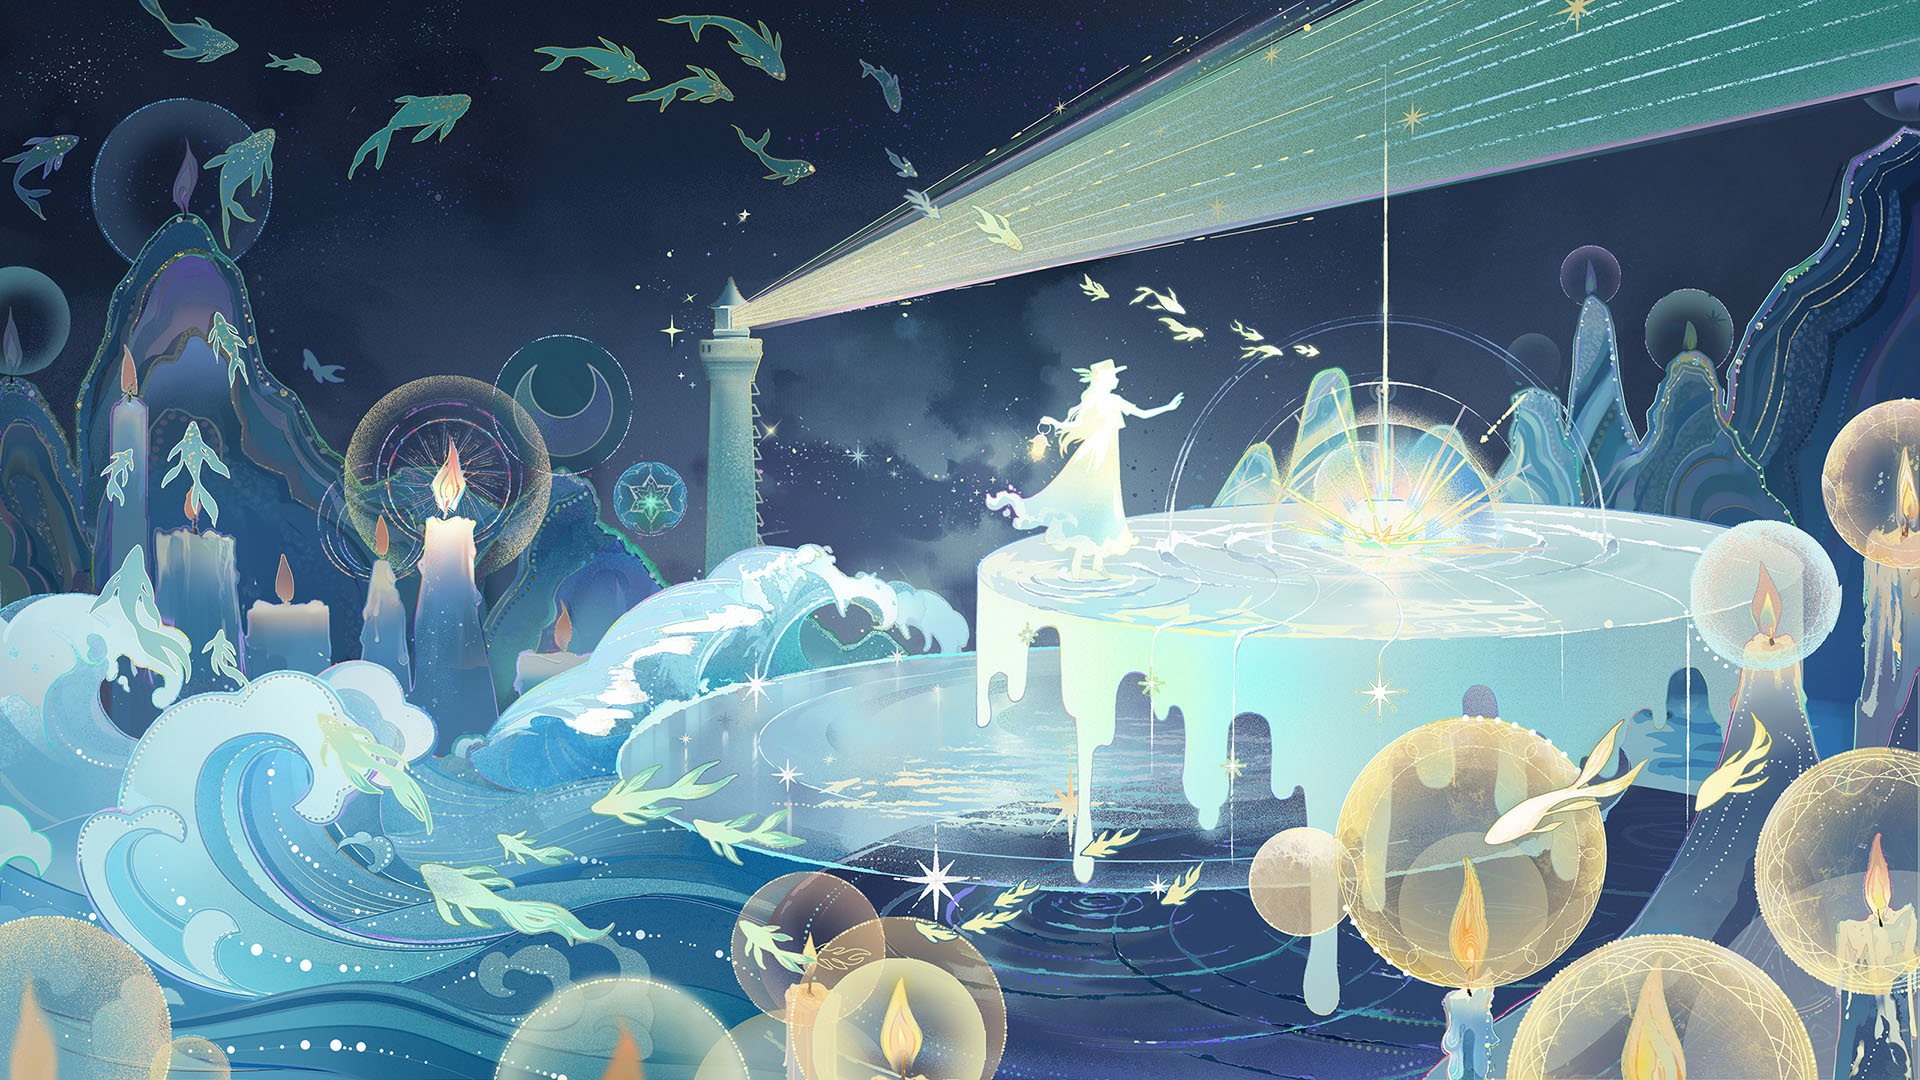
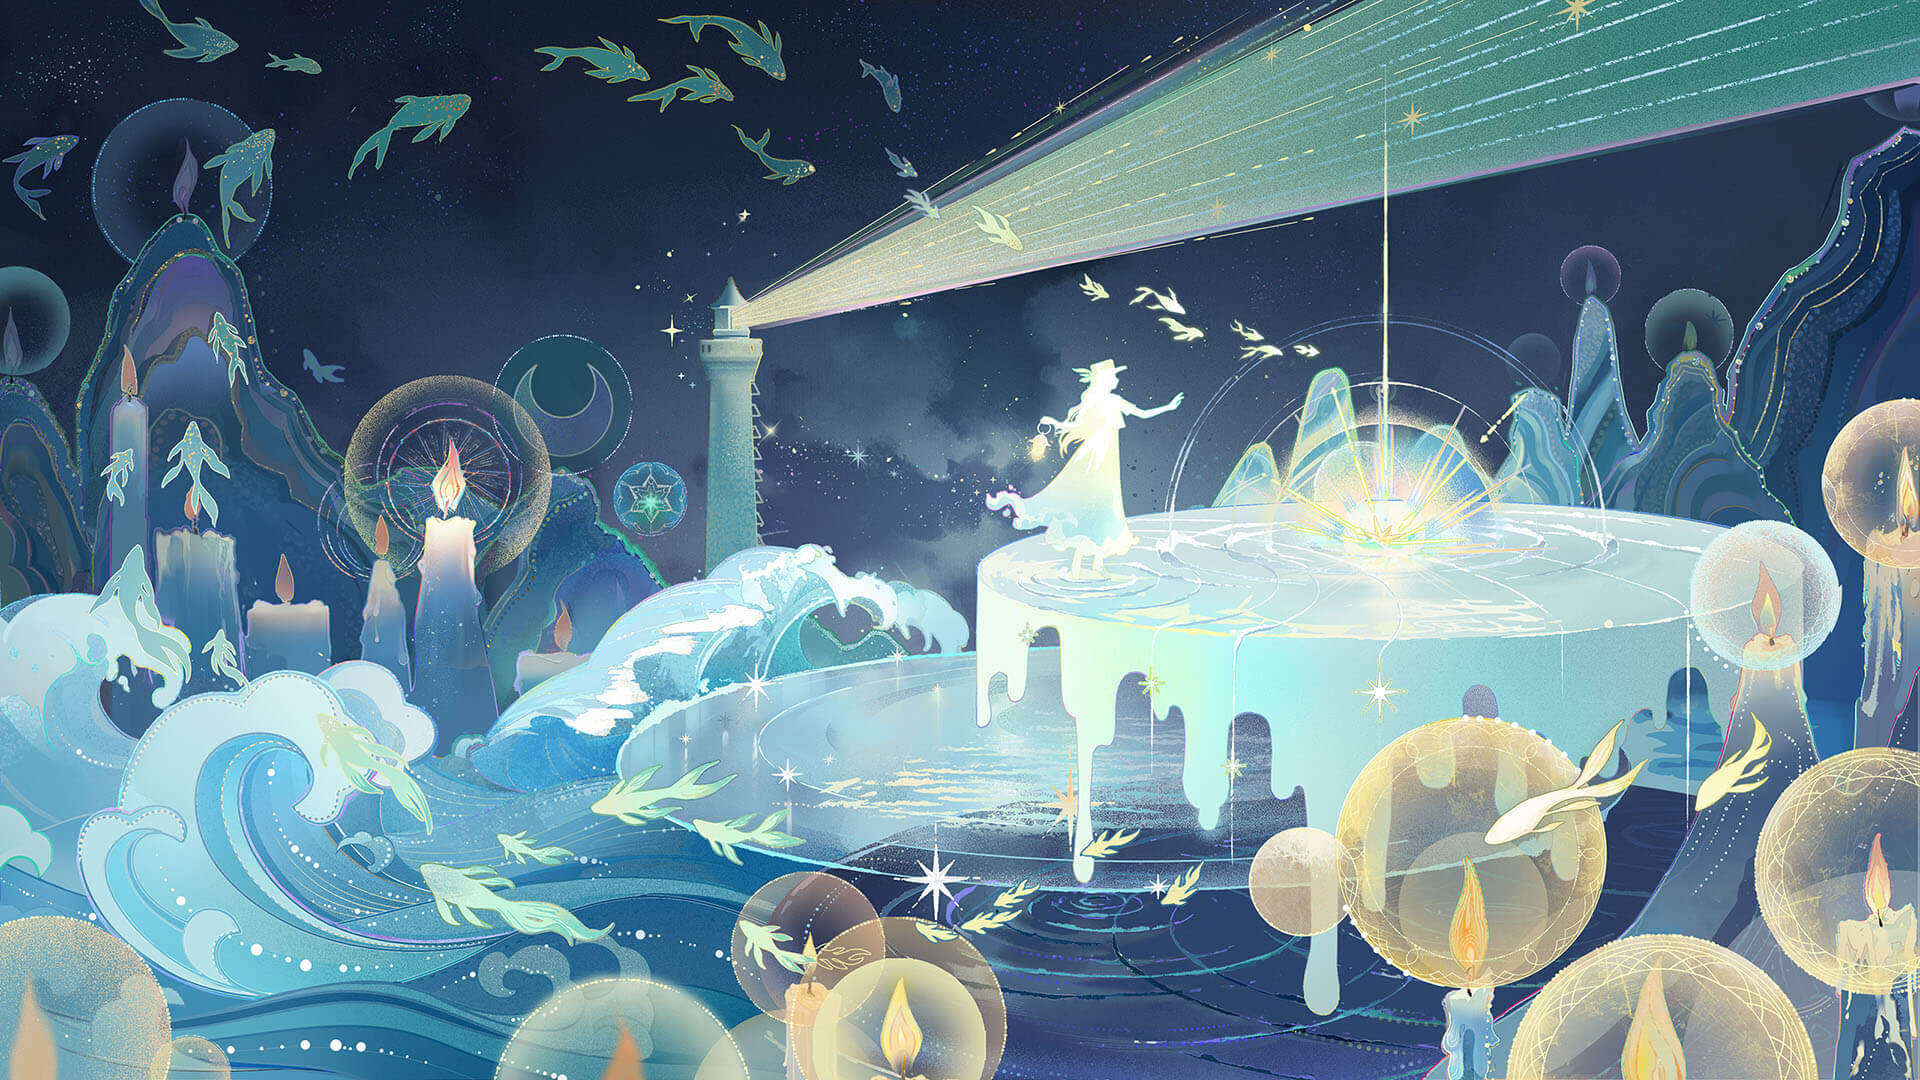
perf：图片压缩更新

diff --git a/source/_posts/butterfly主题魔改记录.md b/source/_posts/butterfly主题魔改记录.md
@@ -737,7 +737,7 @@ else if is_home()
 
 ## 7.2 效果预览
 
-![日夜模式切换动画](./1729261242494.jpg)
+![1729261242494](./../butterfly%E4%B8%BB%E9%A2%98%E9%AD%94%E6%94%B9%E8%AE%B0%E5%BD%95/1729261242494.png)
 
 # 8. 添加日夜模式切换更换樱花飘落和星空的效果
 
